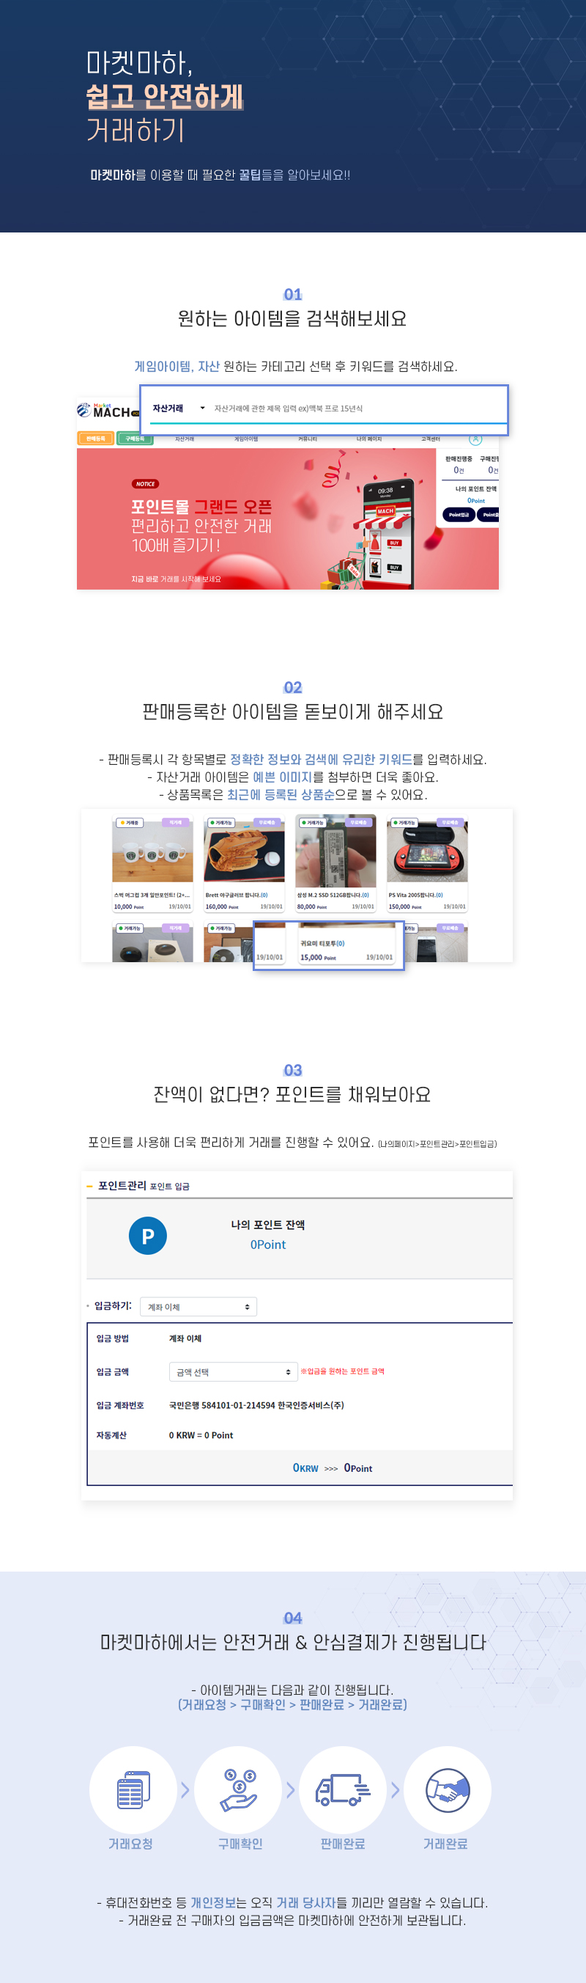
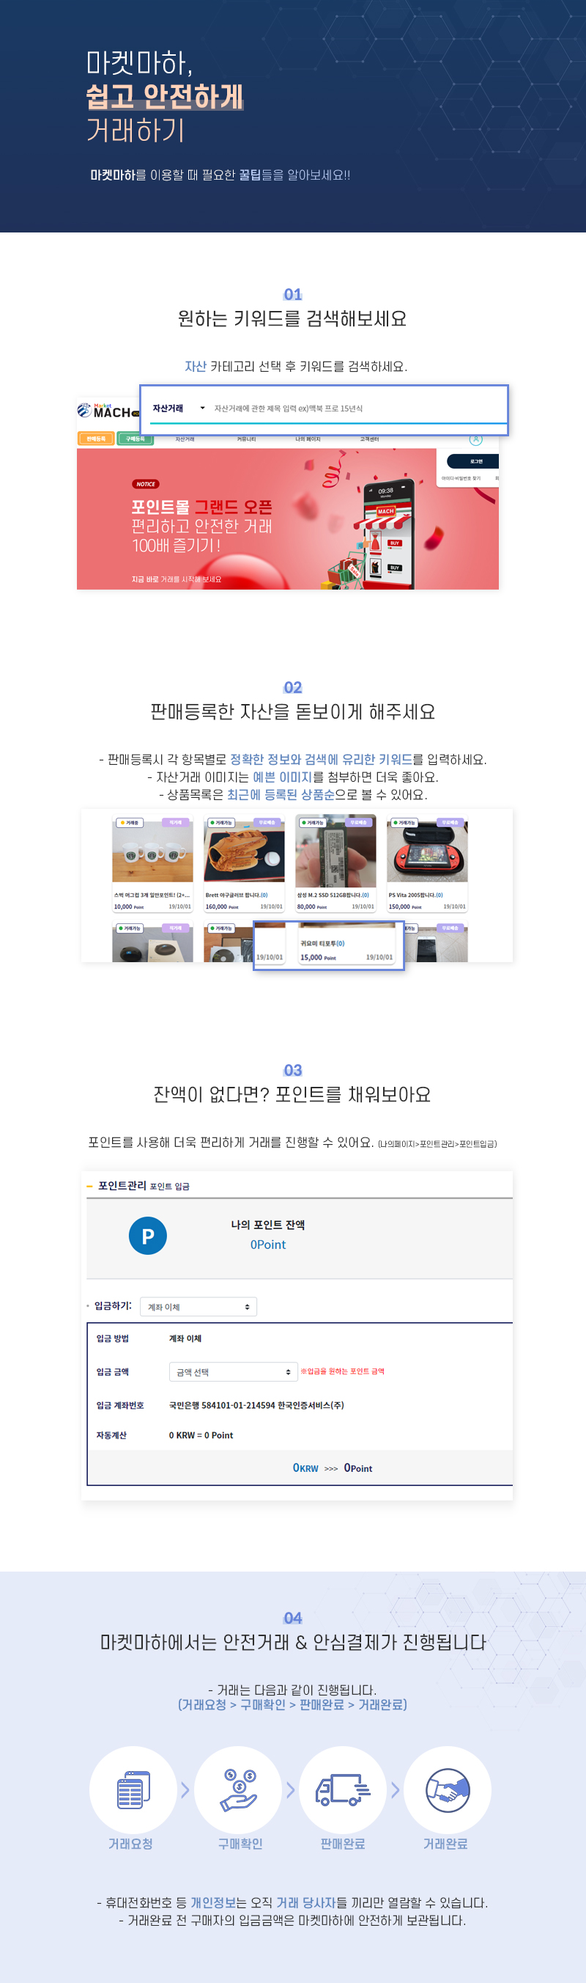
[포인트몰]구글 광고를 위해 게임관련된 내용 전부 제거

diff --git a/views/v2_point/agreements/use.html b/views/v2_point/agreements/use.html
@@ -19,7 +19,7 @@
                 <ul class="cf">
                     <li class="on"><a href="/agreements/use">이용약관</a></li>
                     <li><a href="/agreements/private">개인정보 취급방침</a></li>
-                    <li><a href="/agreements/teenager">청소년 보호정책</a></li>
+                    <!-- <li><a href="/agreements/teenager">청소년 보호정책</a></li> -->
                     <li><a href="/agreements/marketing">마케팅 활용/수신동의</a></li>
                 </ul>
             </div>
@@ -31,11 +31,11 @@
 
                     제 1 조 (목적)
                     
-                    이 약관은 주식회사 마켓마하(이하 “회사”라고 합니다.)가 마하 거래소(http://www.mymach.asia)를 통하여 제공하는 중개서비스 및 기타 정보서비스(이하 “서비스”라고 합니다.)와 관련하여 회사와 회원간의 권리와 의무, 책임사항 및 회원의 서비스 이용절차에 관한 사항을 규정하는 것을 목적으로 합니다.
+                    이 약관은 주식회사 마켓마하(이하 “회사”라고 합니다.)를 통하여 제공하는 중개서비스 및 기타 정보서비스(이하 “서비스”라고 합니다.)와 관련하여 회사와 회원간의 권리와 의무, 책임사항 및 회원의 서비스 이용절차에 관한 사항을 규정하는 것을 목적으로 합니다.
                     
                     제 2 조 (약관의 명시, 효력 및 변경)
                     
-                    ① 회사는 이 약관을 서비스를 이용하고자 하는 자와 회원이 알 수 있도록 서비스가 제공되는 마하 거래소(http://www.mymach.asia) 화면에 게시합니다.
+                    ① 회사는 이 약관을 서비스를 이용하고자 하는 자와 회원이 알 수 있도록 서비스가 제공되는 사이트 화면에 게시합니다.
                     
                     ② 회사가 이 약관을 개정하는 경우에는 개정된 약관의 적용일자 및 개정사유를 명시하여 그 적용일자 7일 이전부터 적용일자 전일까지 위 1항의 방법으로 공지합니다. 다만, 이용자에게 불리하게 약관내용을 변경하는 경우에는 최소한 30일 이상의 사전 유예기간을 두고 공지합니다. 이 경우 회사는 개정 전 내용과 개정 후 내용을 명확하게 비교하여 이용자가 알기 쉽도록 표시합니다.
                     
@@ -52,10 +52,10 @@
                     회사가 회원에게 제공하는 서비스는 다음과 같습니다.
                     
                     1. 중개서비스
-                    회사가 마하 거래소(http://www.mymach.asia)를 통하여 회원 상호간에 물품매매거래가 이루어질 수 있는 사이버 거래장소를 온라인으로 제공 하는 서비스 및 관련 부가서비스 일체를 말합니다.
+                    회사가 회원 상호간에 물품매매거래가 이루어질 수 있는 사이버 거래장소를 온라인으로 제공 하는 서비스 및 관련 부가서비스 일체를 말합니다.
                     
                     2. 기타 정보서비스
-                    중개서비스 이외에 회사가 마하 거래소(http://www.mymach.asia)를 통하여 회원에게 온라인으로 제공하는 정보서비스 등의 인터넷서비스를 말합니다.
+                    중개서비스 이외에 회사가 회원에게 온라인으로 제공하는 정보서비스 등의 인터넷서비스를 말합니다.
                     
                     제 5 조 (용어의 정의) 
                     이 약관에서 사용하는 용어의 정의는 다음과 같습니다. 
@@ -102,11 +102,10 @@
                     라) 회원이 직거래 등 회사가 제공하는 서비스의 원활한 진행을 방해하는 행위를 하거나 시도한 경우
                     마) 회원이 실제로 물품을 판매하고자 하는 의사 없이 물품등록을 한 경우 또는 이를 알고 낙찰 받은 것으로 인정되는 경우
                     바) 물품사기 등 범죄를 유발 한다고 회사가 판단하는 행위
-                    사) 타인의 결제수단(신용카드 / 휴대폰 번호 / 암화화페 지갑주소)를 도용한 경우
+                    사) 타인의 결제수단(신용카드 / 휴대폰 번호)를 도용한 경우
                     아) 타인의 ID를 도용한 경우
                     자) 본 약관의 내용을 위반하는 행위
-                    차) 게임산업진흥에관한법률 시행령 제18조의3 제3호의 각 목에 해당하는 물품을 판매하여 게임산업진흥에관한법률 제32조 제7항을 위반한 경우
-                    2. 이용계약은 회사의 해지의사가 회원에게 도달한 때에 종료되나, 회원이 제공한 연락처 정보의 오류로 인하여 회사가 해지의사를 통지할 수 없는 경우에는 회사가 마하 거래소에 해지의사를 공지하는 때에 종료됩니다.
+                    2. 이용계약은 회사의 해지의사가 회원에게 도달한 때에 종료되나, 회원이 제공한 연락처 정보의 오류로 인하여 회사가 해지의사를 통지할 수 없는 경우에는 회사가 해지의사를 공지하는 때에 종료됩니다.
                     3. 회사가 이용계약을 해지하는 경우, 회사는 별도의 통지 없이 해당 회원과 관련된 매매를 취소할 수 있습니다.
                     4. 이용계약이 종료되는 경우, 회사는 해당 회원의 포인트를 정산합니다. 정산 후, 포인트가 잔존하는 경우 회사는 해당회원의 요청이 있은 후 7일 이내에 해당회원의 입금계좌로 그 금액을 송금합니다.
                     5. 이용계약의 종료와 관련하여 발생한 손해는 이용계약이 종료된 해당 회원이 책임을 부담하여야 하고, 회사는 일체의 책임을 지지 않습니다.
@@ -123,7 +122,7 @@
                     2. 통신비밀보호법, 부가가치세법 등 국가기관의 법령에 의한 자료 제공 요청이 있는 경우
                     ⑥ 회사는 회원정보의 보호를 위하여 관리자를 최소한으로 한정하며, 회사의 고의 또는 과실로 인하여 회원정보가 분실, 도난, 유출, 위조, 변조 또는 훼손된 경우에는 그로 인한 회원의 손해에 대하여 모든 책임을 부담합니다.
                     ⑦ 이용계약이 종료된 경우, 회사는 당해 회원의 정보를 파기하는 것을 원칙으로 합니다. 다만, 관계 법령 및 운영방침에 의한 경우에는 그에 따라 보관 및 파기합니다. 자세한 내용은 개인정보처리방침에 따릅니다.
-                    ⑧ 회사는 회원정보의 보호와 관리에 관한 개인정보처리방침을 회원과 회사의 서비스를 이용하고자 하는 자가 알 수 있도록 마하 거래소 (http://www.mymach.asia)에 공개합니다.
+                    ⑧ 회사는 회원정보의 보호와 관리에 관한 개인정보처리방침을 회원과 회사의 서비스를 이용하고자 하는 자가 알 수 있도록 사이트에 공개합니다.
                     
                     제 11 조 (회원의 의무)
                     ① 회원은 회사에게 정보를 제공하고자 하는 경우 사실대로 제공하여야 합니다.
@@ -135,7 +134,7 @@
                     제 4 장 서비스의 이용
                     
                     제 12 조 (중개서비스의 종류 및 이용)
-                    ① 회사가 제공하는 중개서비스는 VTR 거래, 암화화폐 거래 등이 있습니다.
+                    ① 회사가 제공하는 중개서비스는 VTR 거래 등이 있습니다.
                     ② 회사는 중개서비스의 종류에 따라 각 매매의 특성, 매매절차 및 매매방법에 대한 사항을 서비스화면을 통하여 공지합니다. 회원은 회사가 공지한 각 매매에 관한 사항을 사전에 충분히 이해하고 중개서비스를 이용하여야 합니다.
                     ③ 회원은 아이디(ID)와 비밀번호를 통하여 회사가 제공하는 중개서비스에 접속할 수 있고, 동 중개서비스를 이용하여 물품을 판매하거나 구매할 수 있습니다.
                     ④ 회원이 중개서비스를 통하여 판매 또는 구매하는 경우, 반드시 회사가 마련한 매매보호 서비스를 통하여 거래를 완료하여야 합니다. 회사는 회원간의 직거래로 인하여 발생한 문제에 대하여 책임지지 않습니다.
@@ -186,12 +185,11 @@
                     ② 판매자는 물품 전달 시 회사의 구매자 정보를 확인 하여 정확하게 전달 해야 하며, 잘못 전달한 물품에 대한 책임은 판매자에게 있습니다. 또한 물품 전달을 하지 않거나, 물품 전달 지연에 따른 모든 책임은 판매자에게 있습니다.
                     ③ 특별한 사유 없이 물품 전달을 지연 시킬 경우 운영자 판단으로 거래를 취소 할 수 있습니다.
                     ④ 판매자는 정당한 상담, 반품 및 환불 요구를 들어줄 의무가 있습니다. 자세한 반품 및 환불 규정은 회사가 정하는 서비스 운영정책에 따릅니다.
-                    ⑤ 판매자가 물품을 전달한 후 해당 게임 서비스 업체의 서비스 이상으로 서버를 이전 상태로 되돌림으로써 물품 전달 전의 상황으로 되었을 경우 구매자에게 환불 또는 거래 물품을 재 전달 해야 합니다.
-                    ⑥ 판매자는 해당 자산거래에 이상이 발생되어 물품이 전달되지 않았을 경우는 재차 물품을 전달하여야 합니다. 만약, 판매자가 물품을 전달하지 못할 경우에는 회사로부터 거래가 강제로 취소됩니다. 이에 대한 모든 민사적, 형사적 책임은 판매자에게 있습니다.
-                    ⑦ 거래 시 판매자의 허위 정보로 인하여 발생 되는 모든 사항의 책임은 판매자에게 있습니다.
-                    ⑧ 판매자는 판매 거부 시 회사에 판매거부 신고를 해야 합니다. 단, 판매 거부 시에는 제17조에 의거하여 제재 받을 수 있습니다.
-                    ⑨ 구매자가 정당한 사유 없이 구매 거부 시 판매자는 회사에 구매 거부 신고를 해야 합니다.
-                    ⑩ 구매자의 정당한 구매취소 및 반품에 대하여 판매자는 이를 들어줄 의무가 있습니다.
+                    ⑤ 판매자는 해당 자산거래에 이상이 발생되어 물품이 전달되지 않았을 경우는 재차 물품을 전달하여야 합니다. 만약, 판매자가 물품을 전달하지 못할 경우에는 회사로부터 거래가 강제로 취소됩니다. 이에 대한 모든 민사적, 형사적 책임은 판매자에게 있습니다.
+                    ⑥ 거래 시 판매자의 허위 정보로 인하여 발생 되는 모든 사항의 책임은 판매자에게 있습니다.
+                    ⑦ 판매자는 판매 거부 시 회사에 판매거부 신고를 해야 합니다. 단, 판매 거부 시에는 제17조에 의거하여 제재 받을 수 있습니다.
+                    ⑧ 구매자가 정당한 사유 없이 구매 거부 시 판매자는 회사에 구매 거부 신고를 해야 합니다.
+                    ⑨ 구매자의 정당한 구매취소 및 반품에 대하여 판매자는 이를 들어줄 의무가 있습니다.
                     
                     제 21 조 (구매자의 의무)
                     ① 구매자는 판매자가 안전하게 물품을 전달 할 수 있도록 정확한 구매자 정보를 작성해야 합니다. 또한 거래 시 구매자의 잘못된 정보 기재 및 허위 정보 기재에 따라 발생 되는 모든 책임은 구매자에게 있습니다.
@@ -223,9 +221,7 @@
                     제 5 장 서비스 이용수수료
                     
                     제 24 조 (수수료의 내용)
-                    ① 회사가 부과하는 수수료는 포인트 거래에 대한 에스크로 서비스 이용료, 암호화폐 입출금에 대한 수수료, 포인트 출금에 대한 이체 수수료로 구분합니다.
-                    ②암호화폐 입금 및 출금시 거래 금액의 0.8%를 입금 수수료로 이체자에게 부과합니다.
-                    ③ VTR 거래를 통한 MACH 코인 거래는 무료입니다.
+                    ① 회사가 부과하는 수수료는 포인트 거래에 대한 에스크로 서비스 이용료에 대한 수수료, 포인트 출금에 대한 이체 수수료로 구분합니다.
                     
                     제 25 조 (수수료 징수 방법)
                     회원들의 매매 거래가 정상 종료되면 제24조에서 규정한 해당 거래의 수수료를 물품 대금에서 제외하고 판매자에게 적립합니다.
@@ -255,7 +251,7 @@
                     ③ 문의시간 : 평일 10시부터 17시까지
                     ④ 회사소개
                     1. 회사명 : 마켓마하
-                    2. 주 소 : 서울시 구로구 디지털로 30길 28, 마리오타워 1213호
+                    2. 주 소 : 서울시 금천구 가산디지털1로 88, B103호
                     3. 사업자 등록번호 : 767-86-00387
                     4. 대표자 : 최세준
                     5. 부칙 이 약관은 2019년 01월 14일부터 적용됩니다.

diff --git a/views/v2_point/include/m_header.html b/views/v2_point/include/m_header.html
@@ -156,7 +156,7 @@
                 <div class="srch_topWrap">
                     <select class="srch_select m_srch_select">
                         <option value="assets">자산거래</option>
-                        <option value="games">게임아이템</option>
+                        <!-- <option value="games">게임아이템</option> -->
                     </select>
                     <input class="srch_input ipt_search_bar" id="m_search_item_name" type="text" placeholder="자산검색이 가능합니다." autocomplete="off"/>
                     <input type="button" class="btn_search bgc1 .btn_search" id="m_main_search" value="검색" autocomplete=off>
@@ -192,7 +192,7 @@
                         <tbody>
                             <tr>
                                 <th><button class="btnMobMenu btn_mob_menu">자산거래</button></th>                                
-                                <th><button class="btnMobMenu btn_mob_menu">게임아이템</button></th>
+                                <!-- <th><button class="btnMobMenu btn_mob_menu">게임아이템</button></th> -->
                                 <th><a href="/community/board" class="fcbk">커뮤니티</a></th>
                                 <th><a href="/mypages/list" class="fcbk">나의 페이지</a></th>
                                 <th></th>
@@ -206,12 +206,12 @@
                     <dt class="fc2">판매등록</dt>
                     <dd>
                         <a href="/etc-sells/register" class="bgc2 mob_rnd_btn">자산거래</a>
-                        <a href="javascript:checkTeenager('/sells/register');" class="bgc2 mob_rnd_btn">게임아이템</a>
+                        <!-- <a href="javascript:checkTeenager('/sells/register');" class="bgc2 mob_rnd_btn">게임아이템</a> -->
                     </dd>
                     <dt class="fc2">구매등록</dt>
                     <dd>
                         <a href="/etc-buys/register" class="bgc2 mob_rnd_btn">자산거래</a>
-                        <a href="javascript:checkTeenager('/buys/register');" class="bgc2 mob_rnd_btn">게임아이템</a>
+                        <!-- <a href="javascript:checkTeenager('/buys/register');" class="bgc2 mob_rnd_btn">게임아이템</a> -->
                     </dd>
                 </dl>
                 <dl class="rgh_menu">

diff --git a/views/v2_point/myPage/mypage.html b/views/v2_point/myPage/mypage.html
@@ -112,7 +112,7 @@
                                                 </a>
                                             </td>
                                         </tr>                                        
-                                        <tr>
+                                        <!-- <tr>
                                             <th>게임아이템</th>
                                             <td>
                                                 <a href="/myPages/sell/list">
@@ -127,25 +127,6 @@
                                                     구매거래중
                                                     <span class="fc3">
                                                         <em id="game_buy"></em>건
-                                                    </span>
-                                                </a>
-                                            </td>
-                                        </tr>
-                                        <!-- <tr>
-                                            <th>OTC거래</th>
-                                            <td>
-                                                <a href="/myPages/sell/list?category=otc">
-                                                    판매거래중
-                                                    <span class="fc2">
-                                                        <em id="otc_sell"></em>건
-                                                    </span>
-                                                </a>
-                                            </td>
-                                            <td>
-                                                <a href="/myPages/buy/list?category=otc">
-                                                    구매거래중
-                                                    <span class="fc3">
-                                                        <em id="otc_buy"></em>건
                                                     </span>
                                                 </a>
                                             </td>

diff --git a/views/v2_point/include/header.html b/views/v2_point/include/header.html
@@ -240,14 +240,14 @@
                         <button class="hasDepth2">판매등록</button>
                         <ul class="depth2 cf">
                             <li><a href="/etc-sells/register">자산거래</a></li>
-                            <li><a href="javascript:checkTeenager('/sells/register');">게임아이템</a></li>
+                            <!-- <li><a href="javascript:checkTeenager('/sells/register');">게임아이템</a></li> -->
                         </ul>
                     </li>
                     <li>
                         <button class="hasDepth2">구매등록</button>
                         <ul class="depth2 cf">
                             <li><a href="/etc-buys/register">자산거래</a></li>
-                            <li><a href="javascript:checkTeenager('/buys/register');">게임아이템</a></li>
+                            <!-- <li><a href="javascript:checkTeenager('/buys/register');">게임아이템</a></li> -->
                         </ul>                    
                     </li>
                 </ul>
@@ -259,13 +259,13 @@
                             <li><a href="/etc-buys?category=etc&trade_type=buy">삽니다</a></li>
                         </ul>  
                     </li>    
-                    <li>
+                    <!-- <li>
                         <button class="hasDepth2">게임아이템</button>
                         <ul class="depth2 cf">
                             <li><a href="/sells?category=game&trade_type=sell">팝니다</a></li>
                             <li><a href="/buys?category=game&trade_type=buy">삽니다</a></li>
                         </ul>                         
-                    </li>
+                    </li> -->
                     <li>
                         <a href="/community/board" class="fcbk">커뮤니티</a>
                     </li>

diff --git a/views/v2_point/main/index.html b/views/v2_point/main/index.html
@@ -378,7 +378,7 @@
                 // OTC
                 // li += '<li class="li_otc"><a href="/otc-sells"><span>OTC</span></a></li>';
                 // 게임아이템
-                li += '<li class="li_game"><a href="/sells"><span>게임아이템</span></a></li>';
+                // li += '<li class="li_game"><a href="/sells"><span>게임아이템</span></a></li>';
                 $hashtagCategory.append(li)
             }).fail(function (fail) {
                 console.log(fail);
@@ -432,7 +432,7 @@
                                 <img src="/static/img/pointmall/m_point_visual02.jpg" alt="해피머니">
                             </div>
                         </a> 
-                    </div>                                                                     
+                    </div>
                 </div>
                 <%# nav-visual-length의 숫자 배너 length에 맞게 적을 것 %>
                 <div class="nav_slick_visual" id="navSlcikVisual" nav-visual-length="4">

diff --git a/views/v2_point/myPage/mybuylist.html b/views/v2_point/myPage/mybuylist.html
@@ -509,8 +509,7 @@
                                     <h2 class="col-sm-2 col-xs-12">거래유형</h2>
                                     <div class="check_filter col-sm-10 col-xs-12">
                                         <input type="radio" name="category" id="etc" value="etc" checked><label for="etc">자산거래</label>
-                                        <input type="radio" name="category" id="game" value="game"><label for="game">게임아이템</label>
-                                        <!-- <input type="radio" name="category" id="otc" value="otc"><label for="otc">OTC거래</label> -->
+                                        <!-- <input type="radio" name="category" id="game" value="game"><label for="game">게임아이템</label> -->
                                     </div>
                                 </li>
                                 <li class="row">

diff --git a/views/v2_point/myPage/mycancellist.html b/views/v2_point/myPage/mycancellist.html
@@ -166,8 +166,7 @@
                                     <h2 class="col-sm-2 col-xs-12">거래유형</h2>
                                     <div class="check_filter col-sm-10 col-xs-12">
                                         <input type="radio" name="category" id="etc" value="etc" checked><label for="etc">자산거래</label>
-                                        <input type="radio" name="category" id="game" value="game"><label for="game">게임아이템</label>
-                                        <!-- <input type="radio" name="category" id="otc" value="otc"><label for="otc">OTC거래</label> -->
+                                        <!-- <input type="radio" name="category" id="game" value="game"><label for="game">게임아이템</label> -->
                                     </div>
                                 </li>
                                 <li class="row">

diff --git a/views/v2_point/myPage/myselllist.html b/views/v2_point/myPage/myselllist.html
@@ -510,8 +510,7 @@
                                     <h2 class="col-sm-2 col-xs-12">거래유형</h2>
                                     <div class="check_filter col-sm-10 col-xs-12">
                                         <input type="radio" name="category" id="etc" value="etc" checked><label for="etc">자산거래</label>
-                                        <input type="radio" name="category" id="game" value="game"><label for="game">게임아이템</label>
-                                        <!-- <input type="radio" name="category" id="otc" value="otc"><label for="otc">OTC거래</label> -->
+                                        <!-- <input type="radio" name="category" id="game" value="game"><label for="game">게임아이템</label> -->
                                     </div>
                                 </li>
                                 <li class="row">

diff --git a/views/v2_point/include/modules/search_guide.html b/views/v2_point/include/modules/search_guide.html
@@ -2,8 +2,7 @@
     <div class="srch_topWrap">
         <select class="srch_select">
             <option value="assets">자산거래</option>
-            <option value="games">게임아이템</option>
-            <!-- <option value="otc">OTC거래</option> -->
+            <!-- <option value="games">게임아이템</option> -->
         </select>
         <input class="srch_input ipt_search_bar" id="search_item_name" type="text" placeholder="자산거래에 관한 제목 입력 ex)맥북 프로 15년식" autocomplete="off"/>
         <input type="button" class="btn_search bgc1 .btn_search" id="main_search" value="검색" autocomplete=off>

diff --git a/views/v2_point/include/footer.html b/views/v2_point/include/footer.html
@@ -4,7 +4,7 @@
             <div class="main_inner_wrap dfb">
                 <div class=""><a href="/agreements/use">이용약관</a></div>
                 <div class=""><a href="/agreements/private">개인정보 처리방침</a></div>
-                <div class=""><a href="/agreements/teenager">청소년 보호정책</a></div>
+                <!-- <div class=""><a href="/agreements/teenager">청소년 보호정책</a></div> -->
                 <div class=""><a href="/howto/safty_trade">안전거래 안내</a></div>
             </div>    
         </div>

diff --git a/views/v2_point/agreements/marketing.html b/views/v2_point/agreements/marketing.html
@@ -19,7 +19,7 @@
                 <ul class="cf">
                     <li><a href="/agreements/use">이용약관</a></li>
                     <li><a href="/agreements/private">개인정보 취급방침</a></li>
-                    <li><a href="/agreements/teenager">청소년 보호정책</a></li>
+                    <!-- <li><a href="/agreements/teenager">청소년 보호정책</a></li> -->
                     <li class="on"><a href="/agreements/marketing">마케팅 활용/수신동의</a></li>
                 </ul>
             </div>

diff --git a/views/v2_point/agreements/private.html b/views/v2_point/agreements/private.html
@@ -19,7 +19,7 @@
                 <ul class="cf">
                     <li><a href="/agreements/use">이용약관</a></li>
                     <li class="on"><a href="/agreements/private">개인정보 취급방침</a></li>
-                    <li><a href="/agreements/teenager">청소년 보호정책</a></li>
+                    <!-- <li><a href="/agreements/teenager">청소년 보호정책</a></li> -->
                     <li><a href="/agreements/marketing">마케팅 활용/수신동의</a></li>
                 </ul>
             </div>
